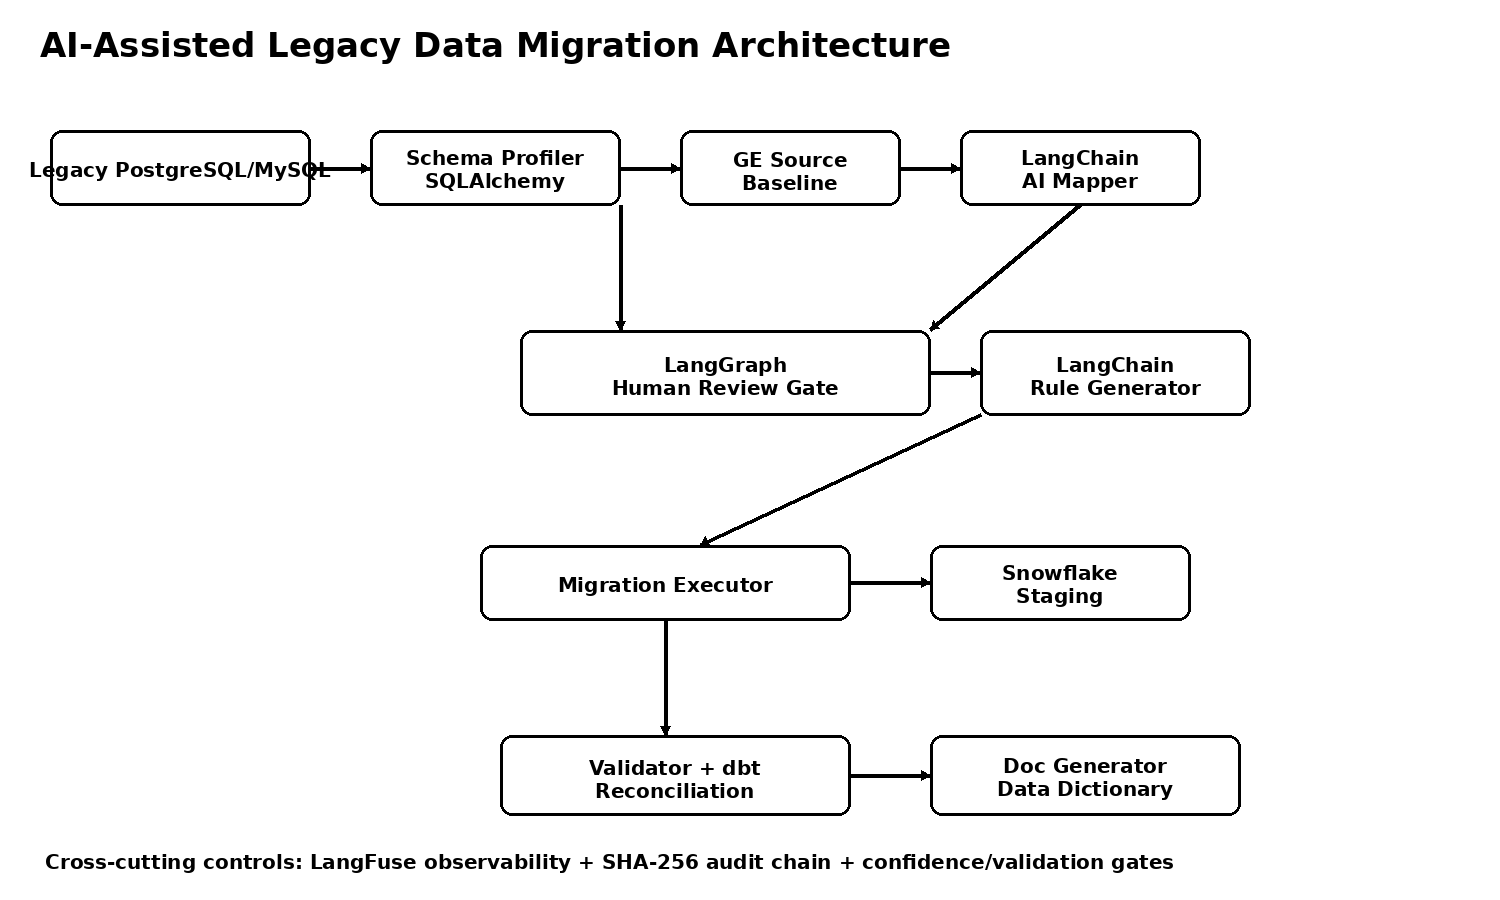
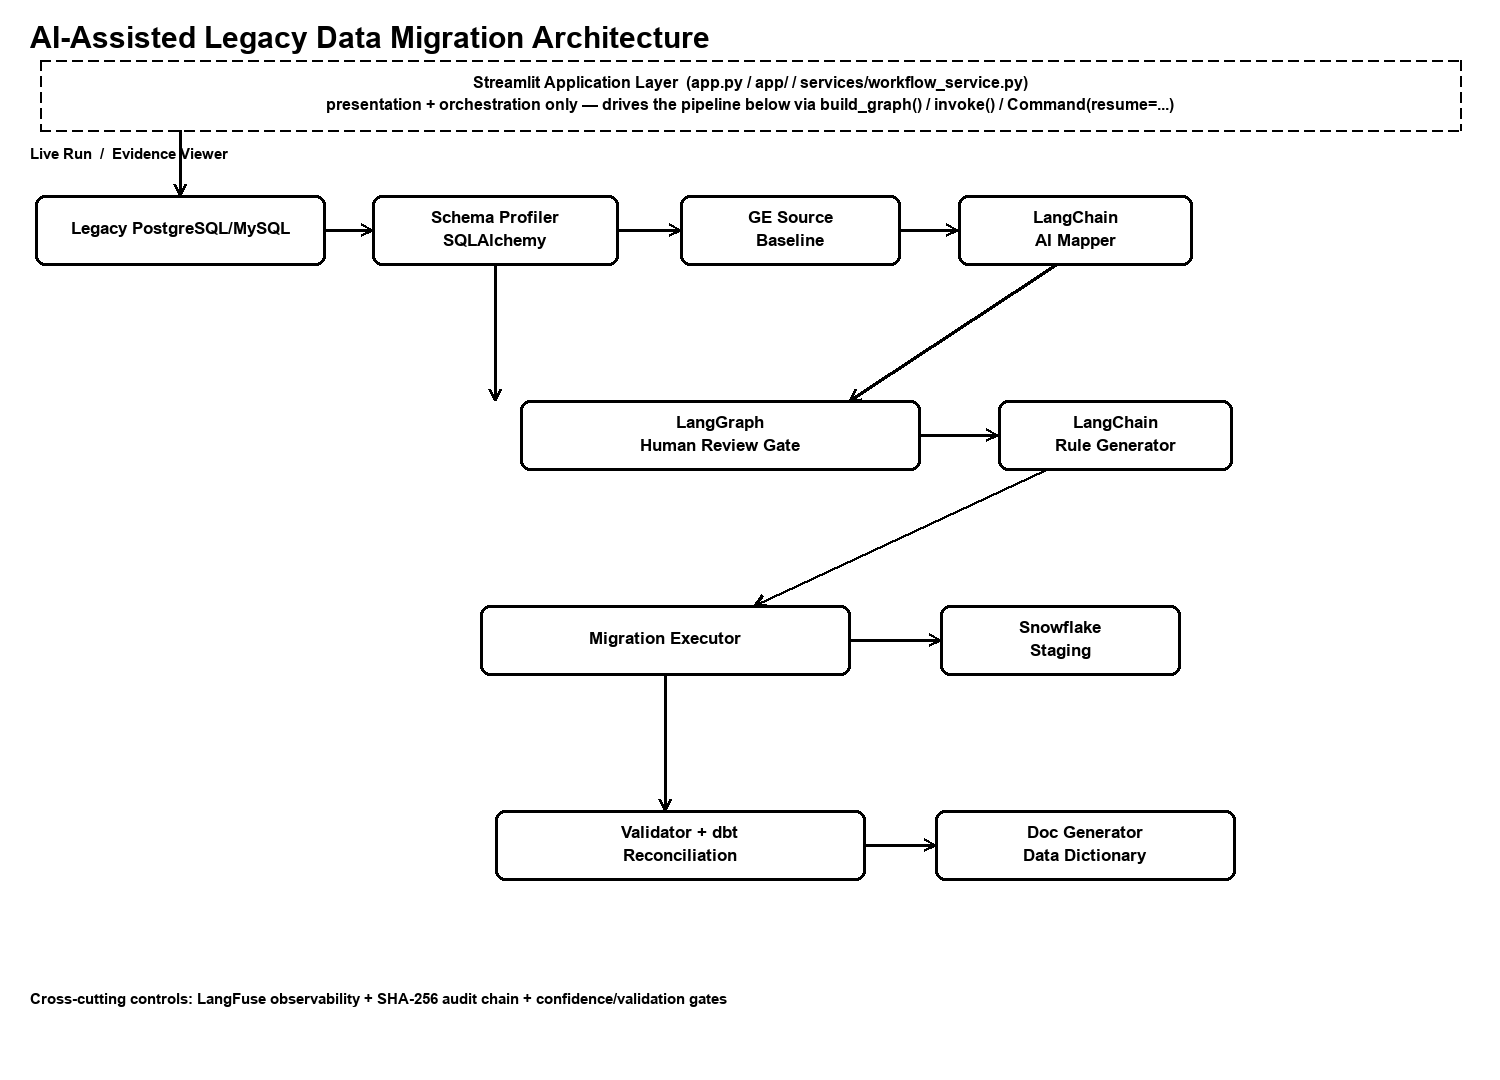
Add the Streamlit app layer to the architecture diagram and README
The README's ASCII architecture diagram (the first thing a reader hits) and
docs/architecture.png both stopped at the LangGraph pipeline with no mention
that a Streamlit application layer sits on top and drives it - a real gap,
not an intentional omission.

- README.md: add a "Streamlit Application Layer" block above the pipeline in
  the ASCII diagram, with a pointer to the § Application section; note that
  human_review_gate decisions can come from the app's Human Review page or
  the CLI's stdin/JSON prompt.
- docs/architecture.png: regenerated in the same visual style as the original
  (rounded boxes, arrows, Arial Bold) via a one-off Pillow script, adding a
  dashed "Streamlit Application Layer" box above the pipeline with an arrow
  into the source-database node. Everything below is unchanged from the
  original diagram's layout and content.
- docs/architecture.md: the caveat sentence now reflects that the diagram
  includes the app layer instead of predating it.

diff --git a/README.md b/README.md
@@ -9,6 +9,10 @@ The platform uses SQLAlchemy for profiling, LangChain for semantic mapping/rule/
 
 ## Architecture
 ```text
+Streamlit application layer (app.py, app/, services/workflow_service.py)
+        |  presentation + orchestration only -- drives the graph below via
+        |  build_graph() / invoke() / Command(resume=...); no pipeline logic of its own
+        v
 Legacy PostgreSQL (healthcare schema)
         |
 schema_profiler (SQLAlchemy) -> Great Expectations: source baseline
@@ -17,7 +21,8 @@ ai_mapper (LangChain) -- one LLM call per column, proposes target name/type/tran
         |
 human_review_gate (LangGraph interrupt, checkpointed) -- pauses only for mappings below CONFIDENCE_THRESHOLD;
         |                auto-approved mappings are marked review_status=AUTO_APPROVED (human_reviewed=false);
-        |                human decisions carry reviewer_id/reviewer_role
+        |                human decisions carry reviewer_id/reviewer_role, submitted via the app's
+        |                Human Review page or the CLI's stdin/JSON prompt
         |
 rule_generator (LangChain) -> lineage_generator (Mermaid diagrams)
         |
@@ -33,6 +38,8 @@ doc_generator -> target data dictionary
 Cross-cutting: LangFuse traces/scores + hash-chained audit log (run_started/run_completed/run_failed;
 failed runs roll back their run-scoped Snowflake tables)
 ```
+
+See § Application below for the Streamlit layer's own two modes (Live Run / Evidence Viewer).
 
 ## LLM Provider
 The LLM backend is abstracted behind `config/llm_factory.py`, selected via `LLM_PROVIDER` in `.env`. Supported providers: `groq` (default), `google_genai`, `nvidia`, `openai`. `groq`/`nvidia`/`openai` all run through `langchain-openai` (declared in `requirements.txt`); `google_genai` uses `langchain-google-genai`. Switching is a config change (`LLM_PROVIDER`/`LLM_API_KEY`/`LLM_MODEL` in `.env`), never an agent code change.

diff --git a/docs/architecture.md b/docs/architecture.md
@@ -6,4 +6,4 @@ on top as an optional presentation/control surface — it drives the same compil
 graph via `build_graph`/`invoke`/`Command(resume=...)` and adds no pipeline logic of its
 own; see `README.md` § Application.
 
-See `docs/lineage.md` for the auto-generated data lineage diagrams and `docs/architecture.png` for the visual diagram (predates the application layer above — the diagram covers the LangGraph pipeline only).
+See `docs/lineage.md` for the auto-generated data lineage diagrams and `docs/architecture.png` for the visual diagram, which includes the Streamlit application layer sitting above the LangGraph pipeline.
